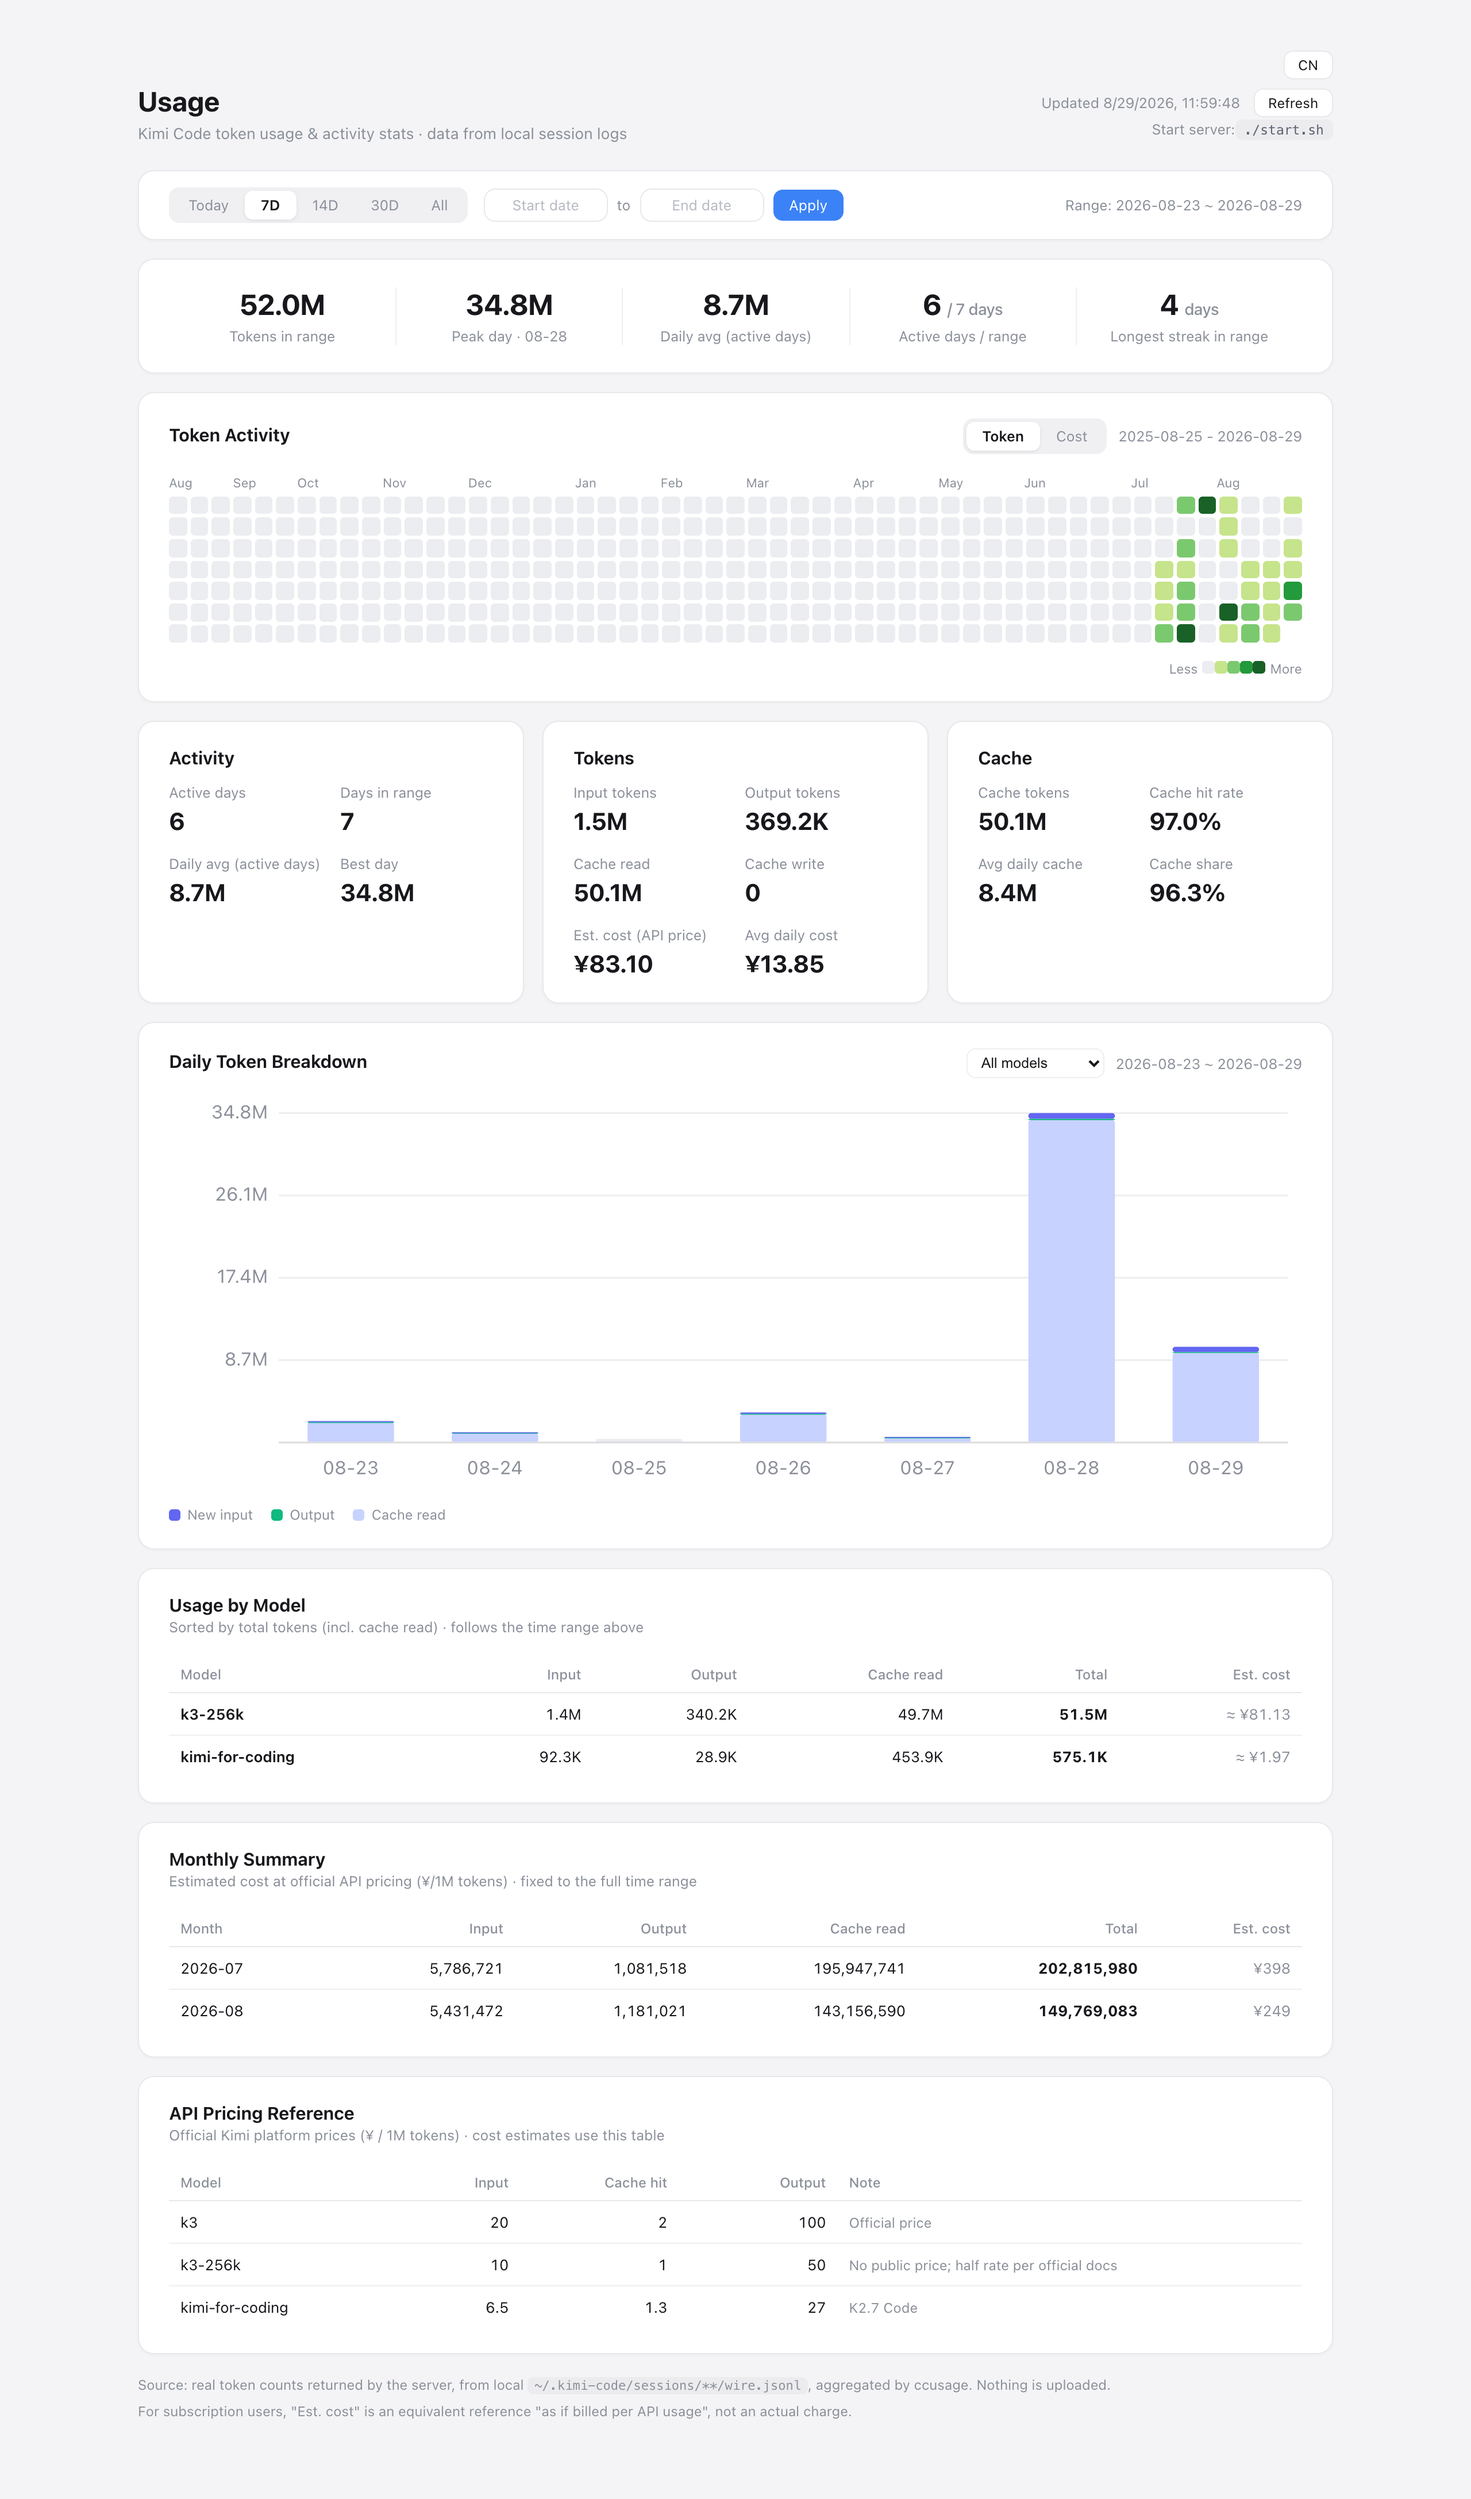
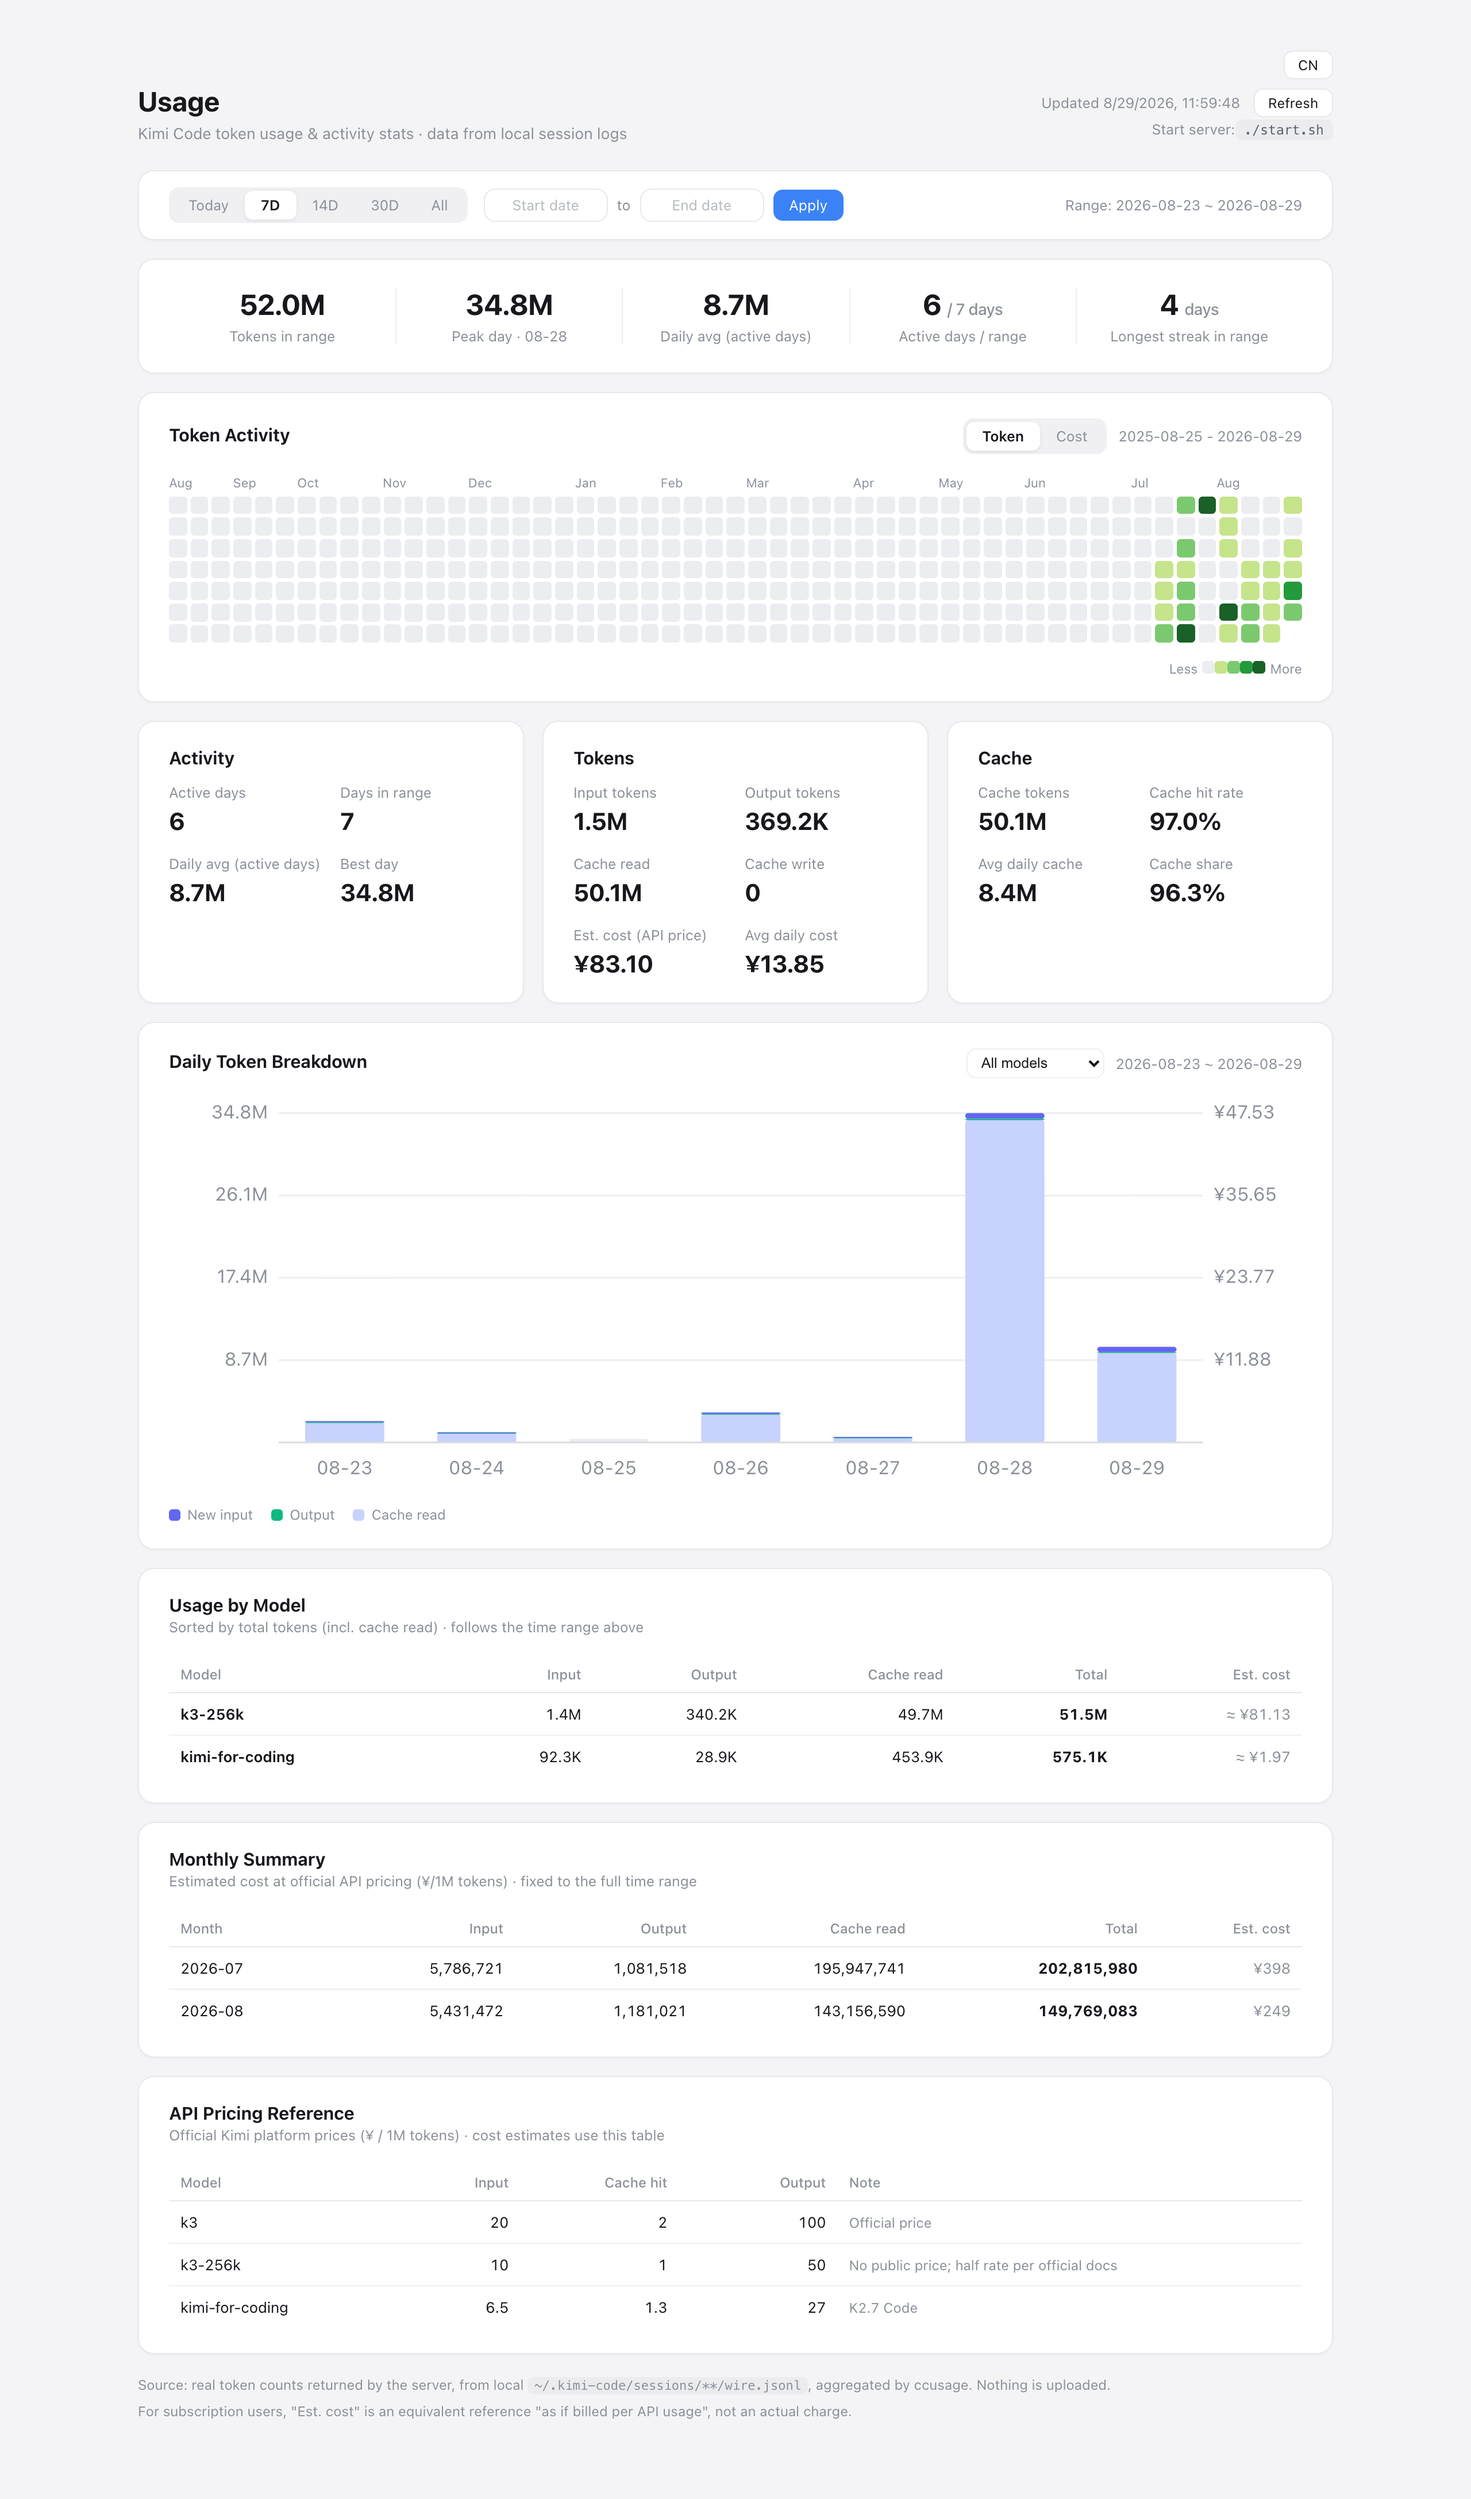
feat: 每日 Token 构成图增加右侧费用次坐标轴，更新 README 截图

Changed region(s): [[0.6562, 0.4347, 0.875, 0.5899], [0.4688, 0.5589, 0.5625, 0.5899]]

diff --git a/index.html b/index.html
@@ -699,16 +699,20 @@
     const days = [];
     for (let d = new Date(rangeStart); d <= new Date(rangeEnd); d.setDate(d.getDate() + 1)) days.push(iso(d));
 
-    const W = 640, H = 220, padL = 62, padB = 26, padT = 8;
-    const plotW = W - padL - 8, plotH = H - padB - padT;
+    const W = 640, H = 220, padL = 62, padR = 56, padB = 26, padT = 8;
+    const plotW = W - padL - padR, plotH = H - padB - padT;
     const maxV = Math.max(...days.map(ds => (dayRec(ds) || {}).totalTokens || 0), 1);
+    // 右轴：费用次坐标轴，刻度按范围内单日最高估算成本等比映射（精确费用见悬浮提示）
+    const dayCostOf = rec => !rec ? 0 : (rec.cost != null ? rec.cost : sum(rec.modelBreakdowns || [], costOf));
+    const maxCost = Math.max(...days.map(ds => dayCostOf(dayRec(ds))), 0);
     const bw = plotW / days.length;
     const labelStep = Math.max(1, Math.ceil(days.length / 12));
     let svg = `<svg viewBox="0 0 ${W} ${H}" width="100%" preserveAspectRatio="xMidYMid meet">`;
     [0.25, 0.5, 0.75, 1].forEach(f => {
       const y = padT + plotH * (1 - f);
-      svg += `<line class="grid-line" x1="${padL}" y1="${y}" x2="${W - 8}" y2="${y}"/>`;
+      svg += `<line class="grid-line" x1="${padL}" y1="${y}" x2="${W - padR}" y2="${y}"/>`;
       svg += `<text class="axis" x="${padL - 6}" y="${y + 3}" text-anchor="end">${fmt(Math.round(maxV * f))}</text>`;
+      svg += `<text class="axis" x="${W - padR + 6}" y="${y + 3}" text-anchor="start">${fmtCost(maxCost * f)}</text>`;
     });
     days.forEach((ds, i) => {
       const rec = dayRec(ds);
@@ -726,7 +730,7 @@
         svg += `<text class="axis" x="${x + w / 2}" y="${H - 8}" text-anchor="middle">${ds.slice(5)}</text>`;
       }
     });
-    svg += `<line x1="${padL}" y1="${padT + plotH}" x2="${W - 8}" y2="${padT + plotH}" style="stroke:#dcdce0"/>`;
+    svg += `<line x1="${padL}" y1="${padT + plotH}" x2="${W - padR}" y2="${padT + plotH}" style="stroke:#dcdce0"/>`;
     svg += '</svg>';
     document.getElementById('bars').innerHTML = svg;
   }
